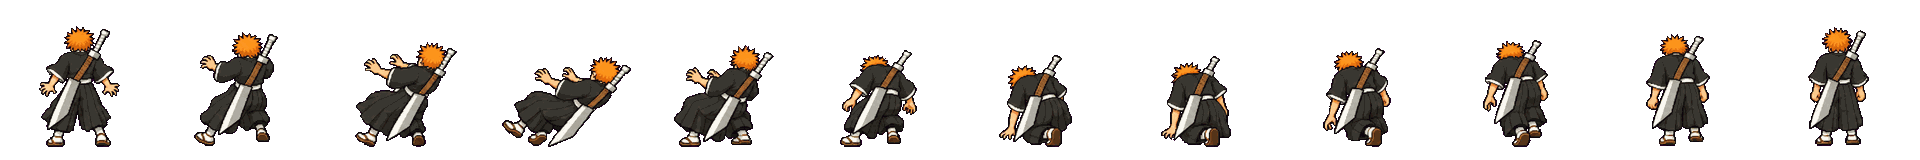
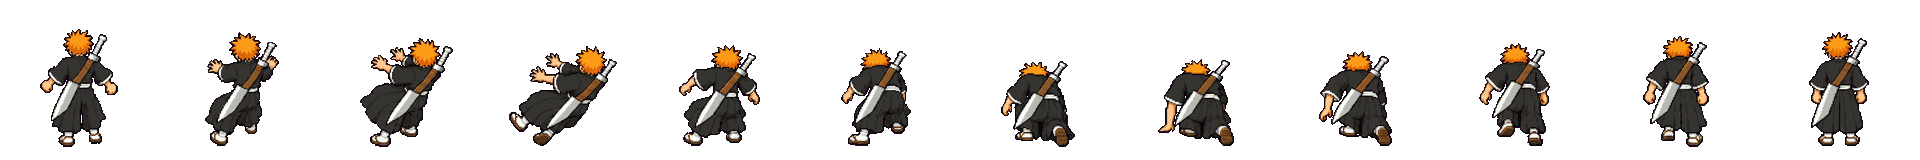
fix(player): draw the back-view sword across the back
Seen from behind, the blade started at the waist and hung down to the
knees, copied from the old back reference. Regenerate the 15 back clips
that carry the sword so the blade crosses the back from the right
shoulder to the left hip.

diff --git a/geradores/player_kit_anims.py b/geradores/player_kit_anims.py
@@ -7,7 +7,12 @@ Cada animação cobre uma situação que existe no jogo (ver docs/direcionamento
 DIRECTIONS = {
     "front": "Seen from the FRONT: he faces down toward the camera, in the same 3/4 top-down view as the front reference.",
     "left": "Seen from his LEFT SIDE: he faces and acts toward the LEFT of the image, as in the side reference.",
-    "back": "Seen from BEHIND: he faces up away from the camera, back of the head visible, as in the back reference.",
+    "back": ("Seen from BEHIND: he faces up away from the camera, back of the head visible, as in the back reference. "
+             "WHENEVER THE SWORD IS ON HIS BACK it lies flat ON TOP of the robe, fully visible and never hidden by the body: "
+             "the short black handle sticks up just above his RIGHT shoulder, and the broad blade starts right below it at the "
+             "shoulder blade and crosses his whole back diagonally down to his LEFT hip, held by the brown strap. The blade tip "
+             "ends at the left hip, never lower than the top of the thigh. IGNORE the sword placement of the back reference image, "
+             "which hangs too low; copy only the character design from it."),
 }
 
 SWORD_BACK = "sword on his back"
